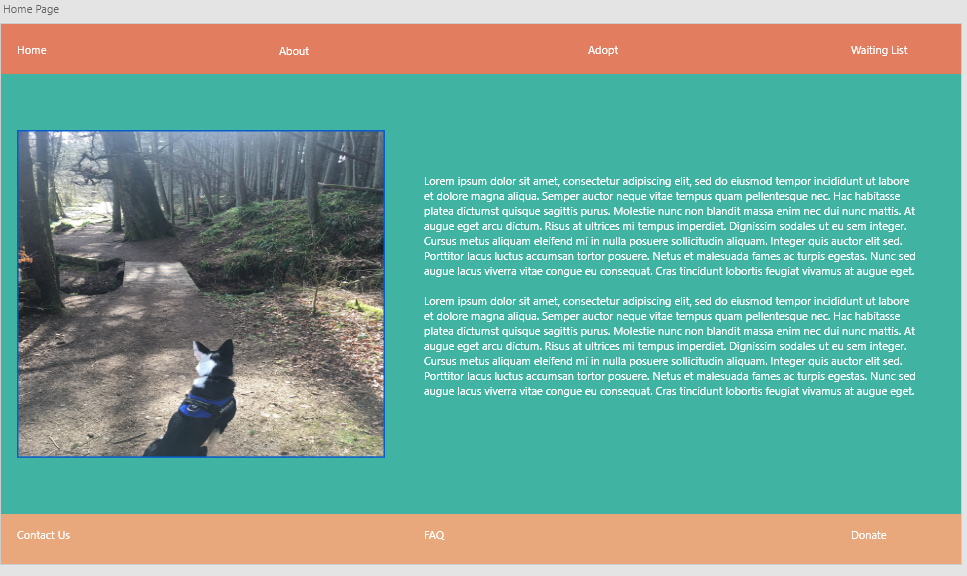
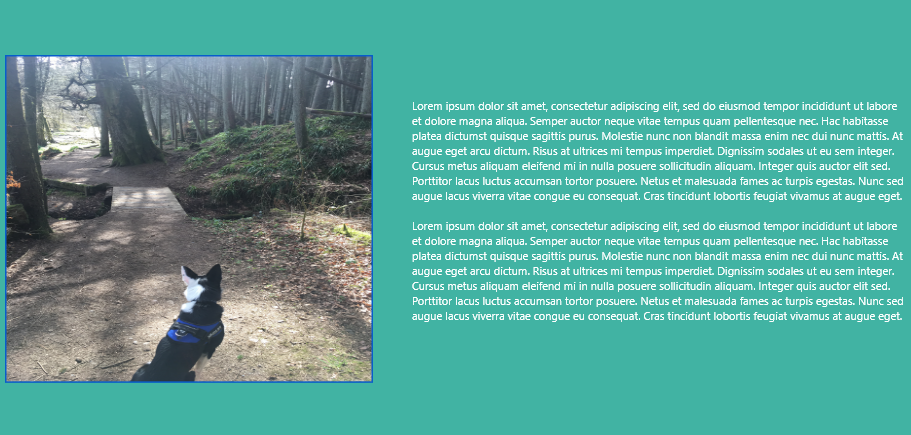
adds new local images and adds project languages

diff --git a/client/src/components/Project.js b/client/src/components/Project.js
@@ -4,6 +4,7 @@ class Project extends Component {
 
 	render() {
 		const { project } = this.props
+		const languages = project.languages.join(', ');
 		return (
 			<div>
 				<img src={`${process.env.PUBLIC_URL}${project.img}`} alt="website image" className="projectImg"/>
@@ -11,6 +12,8 @@ class Project extends Component {
 				{project.name}
 				<br />
 				{project.description}
+				<br />
+				{languages}
 				<br />
 				<a className="btn btn-primary projectBtn" href={project.github} role="button" size="sm">Github</a>
 				<a className="btn btn-primary projectBtn" href={project.website} role="button" size="sm">Website</a>

diff --git a/client/src/App.js b/client/src/App.js
@@ -7,6 +7,16 @@ import 'bootstrap/dist/css/bootstrap.min.css';
 import './App.css';
 
 class App extends Component {
+	constructor(props) {
+		super(props);
+		this.state = {
+			gitHubTheme: {
+				background: '#fff',
+				text: '#000'
+			}
+		}
+	}
+
 	render() {
 		return (
 			<Provider store={store}>

diff --git a/client/src/App.css b/client/src/App.css
@@ -8,6 +8,11 @@ body {
 	flex-direction: row;
 }
 
+.AppBody {
+	display: flex;
+	flex-direction: column;
+}
+
 .nav {
 	background-color: #007EE5;
 	width: 33vh;
